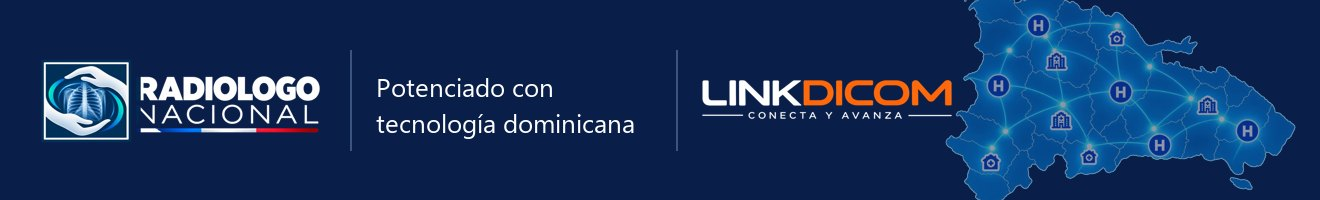
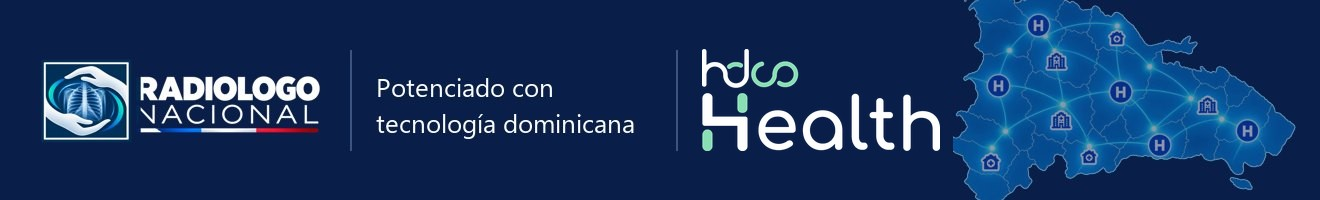
Marca: HDCO Health sustituye a LINKDICOM en toda la web
- Logo nuevo (public/img/hdco-health.webp, fondo transparente) en la seccion
  "Sobre este proyecto", el modal del proyecto, el modal de la red y el modal
  de contacto; anchos ajustados a su proporcion.
- Textos: banda de demo, sobre el proyecto, esfuerzo conjunto, pie de pagina,
  terminos, nombre de empresa en contacto (direccion y datos se mantienen),
  meta description y README. "LINKDICOM y HDCO" pasa a "HDCO Health" y los
  titulos que hablaban de "empresas" quedan en singular.
- Correo de bienvenida: pie rehecho con el logo nuevo en version clara.
- Foto de la sede: el letrero del edificio ahora dice HDCO Health.
- Se eliminan linkdicom.webp y linkdicom-blanco.webp. El destino de los
  correos (info@link-dicom.com) no cambia.

Changed region(s): [[0.528, 0.27, 0.7455, 0.75]]

diff --git a/src/data/textos.ts b/src/data/textos.ts
@@ -29,7 +29,7 @@ export const MENU = [
 
 export const AVISO_DEMO = {
   texto: 'Esta es una página de demostración',
-  destacado: 'funcional de LINKDICOM',
+  destacado: 'funcional de HDCO Health',
   resto: 'para presentación del proyecto.',
   boton: 'Saber más de este proyecto',
 };
@@ -79,9 +79,9 @@ export const RED = {
 
 export const PROYECTO = {
   eyebrow: 'Sobre este proyecto',
-  titulo: 'Un Proyecto auspiciado por tecnología de empresas Dominicanas, lo nuestro al servicio de nuestra nación.',
+  titulo: 'Un Proyecto auspiciado por tecnología de una empresa Dominicana, lo nuestro al servicio de nuestra nación.',
   texto:
-    'Radiologo Nacional es una iniciativa que cuenta con el respaldo tecnológico de LINKDICOM y HDCO, empresas dominicanas especializadas en soluciones de salud, que impulsan este proyecto aportando su experiencia, innovación y compromiso con el desarrollo del sistema de salud del país.',
+    'Radiologo Nacional es una iniciativa que cuenta con el respaldo tecnológico de HDCO Health, empresa dominicana especializada en soluciones de salud, que impulsa este proyecto aportando su experiencia, innovación y compromiso con el desarrollo del sistema de salud del país.',
   sello: ['Tecnología', 'dominicana', 'al servicio', 'de la salud'],
 };
 
@@ -95,7 +95,7 @@ export const PIE = {
     { label: 'Contacto', accion: 'contacto' },
   ] as const,
   copyright: `© ${new Date().getFullYear()} Radiologo Nacional. Todos los derechos reservados.`,
-  desarrollado: 'Desarrollado con tecnología dominicana por LINKDICOM.',
+  desarrollado: 'Desarrollado con tecnología dominicana por HDCO Health.',
 };
 
 /* ---------------- Modal: sobre este proyecto ---------------- */
@@ -115,12 +115,12 @@ export const MODAL_PROYECTO = {
     { icon: 'mapa' as const, titulo: 'Más acceso, más equidad', texto: 'Llevamos diagnósticos de calidad a cada región del país.' },
   ],
   iniciativaEyebrow: 'Una iniciativa tecnológica dominicana',
-  iniciativaTitulo: 'Impulsado por empresas dominicanas, para el bienestar de nuestra nación.',
+  iniciativaTitulo: 'Impulsado por una empresa dominicana, para el bienestar de nuestra nación.',
   iniciativaTexto:
-    'Radiologo Nacional es una iniciativa que cuenta con el respaldo tecnológico de LINKDICOM y HDCO, empresas dominicanas especializadas en soluciones de salud, que impulsan este proyecto aportando su experiencia, innovación y compromiso con el desarrollo del sistema de salud del país.',
+    'Radiologo Nacional es una iniciativa que cuenta con el respaldo tecnológico de HDCO Health, empresa dominicana especializada en soluciones de salud, que impulsa este proyecto aportando su experiencia, innovación y compromiso con el desarrollo del sistema de salud del país.',
   alianza: 'Alianza por una salud más fuerte',
   aviso:
-    'Esta es una versión de demostración funcional desarrollada por LINKDICOM para fines de presentación del proyecto. Las funcionalidades mostradas son una emulación aproximada del resultado final y se encuentran en desarrollo.',
+    'Esta es una versión de demostración funcional desarrollada por HDCO Health para fines de presentación del proyecto. Las funcionalidades mostradas son una emulación aproximada del resultado final y se encuentran en desarrollo.',
   cerrar: 'Cerrar',
 };
 
@@ -164,7 +164,7 @@ export const MODAL_RED = {
   ],
   esfuerzoTitulo: 'Un esfuerzo conjunto por una mejor salud',
   esfuerzoTexto:
-    'Radiologo Nacional es una iniciativa impulsada por las empresas dominicanas LINKDICOM y HDCO, que aportan su experiencia, innovación y compromiso con el desarrollo del sistema de salud del país.',
+    'Radiologo Nacional es una iniciativa impulsada por HDCO Health, empresa dominicana que aporta su experiencia, innovación y compromiso con el desarrollo del sistema de salud del país.',
   esfuerzoSello: 'Tecnología dominicana al servicio de la salud de nuestra gente.',
   cerrar: 'Cerrar',
 };
@@ -257,7 +257,7 @@ export const MODAL_CONTACTO = {
   subtitulo: ['Estamos para orientarte.', 'Escríbenos y nuestro equipo te responderá.'],
   texto:
     'Si tienes preguntas sobre el proyecto, necesitas más información o deseas establecer una alianza, completa el formulario y te contactaremos en el menor tiempo posible.',
-  empresa: 'LINKDICOM, S.R.L.',
+  empresa: 'HDCO Health',
   empresaLema: 'Tecnología dominicana al servicio de la salud',
   direccion: ['Calle Proyecto 1, No. 12, Urb. Fernández', 'Santo Domingo Este, República Dominicana', 'Código Postal: 11903'],
   telefono: '+1 (809) 792-9763',
@@ -315,7 +315,7 @@ export const MODAL_DEMO: Record<'convocatorias' | 'faq' | 'sesion' | 'terminos' 
     icon: 'file-text',
     titulo: 'Términos de uso',
     texto:
-      'Los términos de uso de la plataforma se publicarán con la versión final del proyecto. Esta demostración es una emulación funcional desarrollada por LINKDICOM para fines de presentación.',
+      'Los términos de uso de la plataforma se publicarán con la versión final del proyecto. Esta demostración es una emulación funcional desarrollada por HDCO Health para fines de presentación.',
   },
   privacidad: {
     icon: 'shield',

diff --git a/src/components/ModalesContacto.tsx b/src/components/ModalesContacto.tsx
@@ -83,7 +83,7 @@ export function ModalContacto({ onClose }: { onClose: () => void }) {
     <Modal titulo={M.titulo} onClose={onClose} ancho="1000px" className="modal--contacto">
       <div className="mc__cabeza">
         <img className="mc__logo" src="/brand/logo.webp" alt={SITIO.nombre} width={1200} height={447} />
-        <img className="mc__edificio" src="/img/edificio.webp" alt="Sede de LINKDICOM" width={952} height={462} />
+        <img className="mc__edificio" src="/img/edificio.webp" alt="Sede de HDCO Health" width={952} height={462} />
       </div>
 
       <div className="mc__dos">
@@ -181,7 +181,7 @@ export function ModalContacto({ onClose }: { onClose: () => void }) {
 
         <aside className="mc__lateral">
           <div className="mc__empresa">
-            <img src="/img/linkdicom.webp" alt="LINKDICOM — Conecta y avanza" width={1000} height={156} />
+            <img src="/img/hdco-health.webp" alt="HDCO Health" width={1112} height={476} />
             <div className="mc__empresa-datos">
               <div>
                 <b>{M.empresa}</b>

diff --git a/src/components/ModalesInfo.tsx b/src/components/ModalesInfo.tsx
@@ -45,7 +45,7 @@ export function ModalProyecto({ onClose }: { onClose: () => void }) {
           <p>{M.iniciativaTexto}</p>
         </div>
         <div className="mp__alianza" aria-hidden="true">
-          <img src="/img/linkdicom.webp" alt="LINKDICOM" width={1000} height={156} />
+          <img src="/img/hdco-health.webp" alt="HDCO Health" width={1112} height={476} />
           <span className="mp__mas">+</span>
           <span className="mp__hdco">
             <Icon name="users" size={40} strokeWidth={1.4} />
@@ -163,7 +163,7 @@ export function ModalRed({ onClose }: { onClose: () => void }) {
           <p>{M.esfuerzoTexto}</p>
         </div>
         <span className="mr__sello">
-          <img src="/img/linkdicom.webp" alt="LINKDICOM" width={1000} height={156} />
+          <img src="/img/hdco-health.webp" alt="HDCO Health" width={1112} height={476} />
           <i>{M.esfuerzoSello}</i>
         </span>
       </div>

diff --git a/index.html b/index.html
@@ -10,7 +10,7 @@
     <meta name="theme-color" content="#0b2a6f" />
     <meta
       name="description"
-      content="Radiologo Nacional: plataforma para el registro de médicos radiólogos en la República Dominicana y una red hospitalaria interconectada. Demostración funcional de LINKDICOM."
+      content="Radiologo Nacional: plataforma para el registro de médicos radiólogos en la República Dominicana y una red hospitalaria interconectada. Demostración funcional de HDCO Health."
     />
     <meta property="og:title" content="Radiologo Nacional | Tu talento al servicio de una mejor salud para todos" />
     <meta property="og:description" content="Registro nacional de radiólogos y red hospitalaria interconectada. Regístrate gratis." />

diff --git a/src/components/Secciones.tsx b/src/components/Secciones.tsx
@@ -287,7 +287,7 @@ export function RedProyecto({ abrir }: Props) {
         <h2>{PROYECTO.titulo}</h2>
         <p>{PROYECTO.texto}</p>
         <div className="proyecto__pie">
-          <img className="proyecto__linkdicom" src="/img/linkdicom.webp" alt="LINKDICOM — Conecta y avanza" width={1000} height={156} loading="lazy" />
+          <img className="proyecto__aliado" src="/img/hdco-health.webp" alt="HDCO Health" width={1112} height={476} loading="lazy" />
           <span className="proyecto__sello">
             <img src="/img/manos.webp" alt="" width={600} height={600} loading="lazy" />
             <span>

diff --git a/src/styles/modales.css b/src/styles/modales.css
@@ -146,7 +146,7 @@
   gap: 0.4rem;
 }
 .mp__alianza > img {
-  width: min(260px, 100%);
+  width: min(170px, 100%);
 }
 .mp__mas {
   font-family: var(--display);
@@ -503,7 +503,7 @@
   justify-self: end;
 }
 .mr__sello img {
-  width: 200px;
+  width: 140px;
 }
 .mr__sello i {
   font-style: normal;
@@ -1116,8 +1116,8 @@
   border: 1px solid var(--borde);
 }
 .mc__empresa > img {
-  width: 220px;
-  margin-bottom: 0.6rem;
+  width: 150px;
+  margin-bottom: 0.8rem;
 }
 .mc__empresa-datos {
   display: grid;

diff --git a/src/styles/pagina.css b/src/styles/pagina.css
@@ -491,8 +491,8 @@
   margin-top: auto;
   padding-top: 1.6rem;
 }
-.proyecto__linkdicom {
-  width: clamp(200px, 10rem + 8vw, 300px);
+.proyecto__aliado {
+  width: clamp(130px, 6rem + 4vw, 180px);
 }
 .proyecto__sello {
   display: flex;

diff --git a/public/api/registro.php b/public/api/registro.php
@@ -384,7 +384,7 @@ function correoBienvenida(string $tratamiento, string $nombre): string
     </table>
   </td></tr>
   <tr><td style="padding:14px 22px 20px"><table role="presentation" cellpadding="0" cellspacing="0" style="width:100%"><tr>$celdas</tr></table></td></tr>
-  <tr><td style="padding:0"><img src="$u/img/correo/pie.jpg" width="660" alt="Radiologo Nacional — Potenciado con tecnología dominicana — LINKDICOM" style="display:block;width:100%;height:auto"></td></tr>
+  <tr><td style="padding:0"><img src="$u/img/correo/pie.jpg" width="660" alt="Radiologo Nacional — Potenciado con tecnología dominicana — HDCO Health" style="display:block;width:100%;height:auto"></td></tr>
   <tr><td style="padding:14px 20px 18px;text-align:center;font-size:12px;line-height:1.6;color:#6b7891">Este es un mensaje automático, por favor no respondas a este correo.<br>© $anio Radiologo Nacional. República Dominicana.</td></tr>
 </table>
 </body>

diff --git a/README.md b/README.md
@@ -1,7 +1,7 @@
 # Radiologo Nacional
 
 Landing de demostración de **Radiologo Nacional** (registro nacional de
-radiólogos y red hospitalaria interconectada), desarrollada por LINKDICOM
+radiólogos y red hospitalaria interconectada), desarrollada por HDCO Health
 para presentar el proyecto. Dominio: `radiologonacional.com`.
 
 React 18 + TypeScript + Vite + Framer Motion. Una sola página con sus modales
